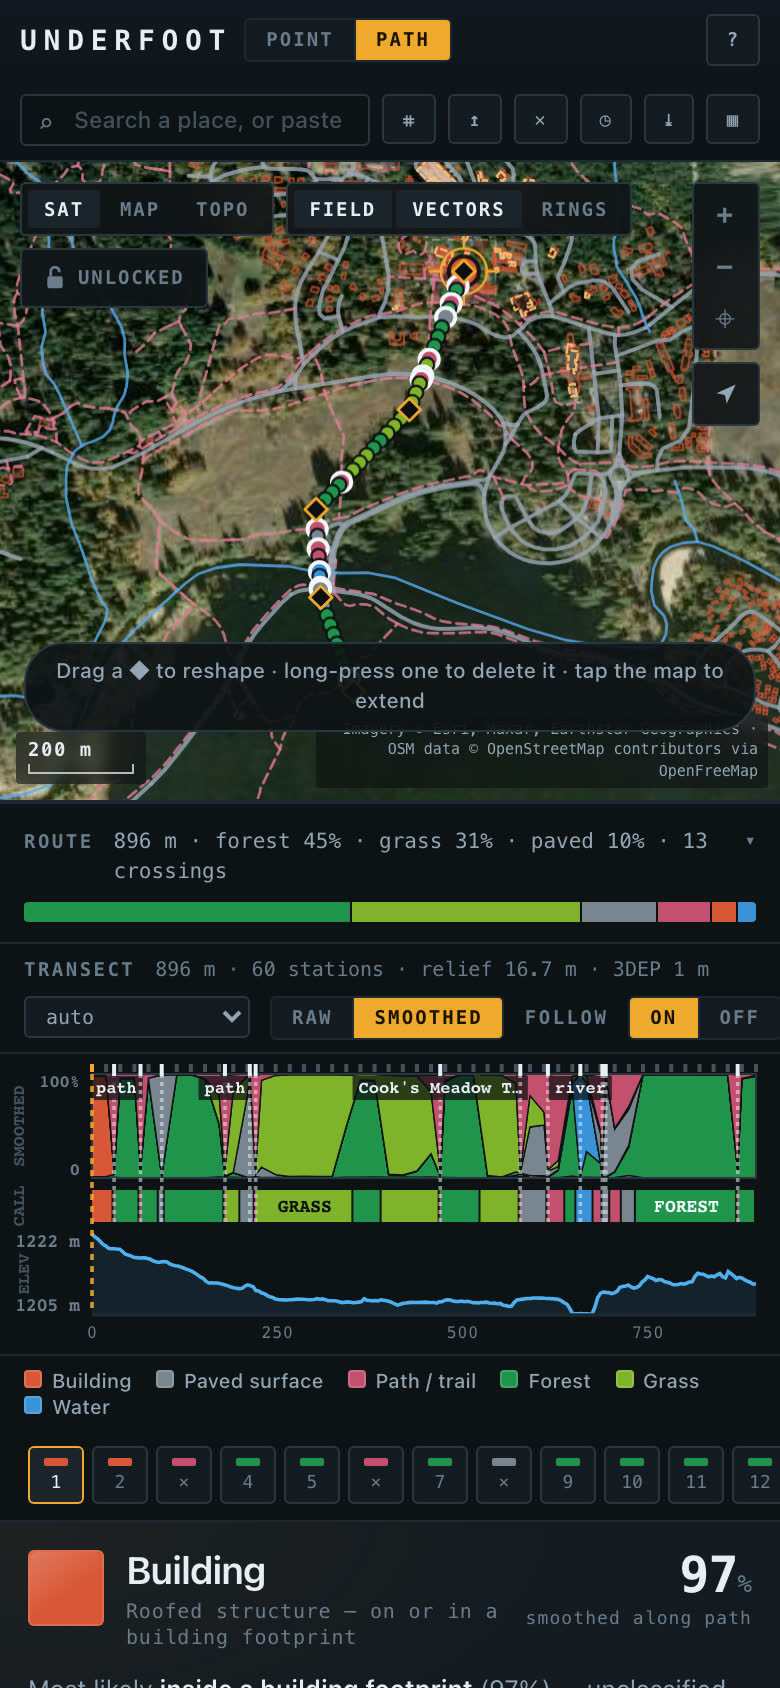
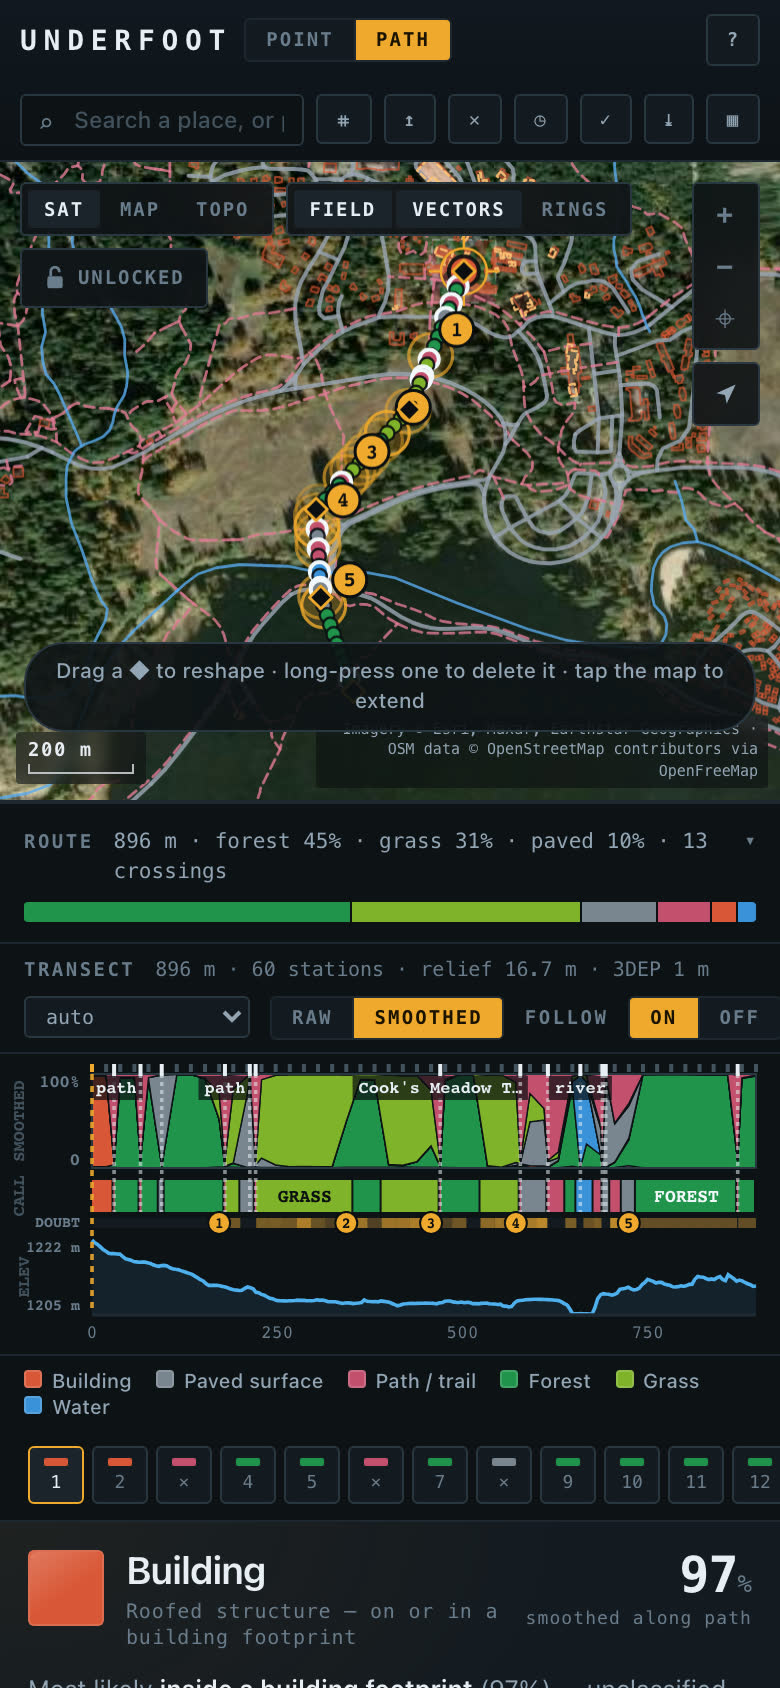
Release 1.2.0: M2, Learning loop
Version 1.2.0 in package.json, the app and CITATION.cff, and the
changelog's section for it. The roadmap records what M2 shipped against
each item's "done when", misses included (snow on rock lights exactly at
the threshold; the GPX hasn't been tried in a hiking app yet). The README
images are regenerated from the current app: halos, check-list numbers,
the doubt band, the mark row, the Marks button and the ledger's weights
line.

Checked on this commit: npm run check (142 unit tests), npm run e2e (102
checks), npm run trails (unchanged: path at 479 of 480 stations on the ten
Park Service lines, 87-94% on the hiker tracks, the demo line follows
nothing).

Changed region(s): [[0.0, 0.6469, 0.9846, 0.8009], [0.3692, 0.1848, 0.6154, 0.3697], [0.3692, 0.0616, 0.4923, 0.0924]]

diff --git a/src/core/classes.ts b/src/core/classes.ts
@@ -18,7 +18,7 @@ import type { ClassDef, ClassKey, ClassMap, PriorName, SourceDef } from './types
  * Everything is free, keyless and CORS-open, so the file works off disk.
  * ==========================================================================*/
 
-export const VERSION = '1.1.1';
+export const VERSION = '1.2.0';
 
 /* ---------------------------------------------------------------- taxonomy */
 export const CLASSES: readonly ClassDef[] = [

diff --git a/docs/roadmap.md b/docs/roadmap.md
@@ -32,25 +32,14 @@ A live site you can send to someone, useful on a phone in the field. Released as
 
 ---
 
-## M2 · Learning loop
+## M2 · Learning loop ✅
 
-**Goal:** Underfoot gets better for *your* area as you use it.
+Underfoot shows where it's unsure, takes your right and wrong marks, and fits its weights to them. Released as 1.2.0.
 
-### Doubt map
-Per station: disagreement among sources (weighted spread of each source's favourite class) and closeness (margin between the top two). Shown as a band on the transect and a tint on the map.
-**Done when** the Seine-quay and Aletsch-type cases from `docs/validation.md` light up as doubtful while clear cases (reservoir, rooftop) stay quiet.
-
-### Walk check list
-The N most doubtful stations along a line, numbered, with what the sources disagree about in plain words. Exports as GPX waypoints for a phone or GPS unit.
-**Done when** the list exports valid GPX that opens in common hiking apps, and each item links back to its station.
-
-### Right / wrong marks
-On any station: ✓ / ✗, and "what's really here" (the twelve classes), plus how you know (standing there, photo, imagery, local knowledge). Stored in IndexedDB with the eight per-source readings at that moment.
-**Done when** marks survive reloads, can be listed, edited and exported, and never leave the device unless shared (M3).
-
-### Local refit
-Fit source weights and N_eff to your own marks: multinomial log-likelihood with L2 pull toward the defaults, so a handful of marks nudges rather than lurches. Shows accuracy on your marks before and after, held-out by leave-one-out. One tap to revert.
-**Done when** refitting on a synthetic set with a known bias recovers it, the defaults are restored exactly on revert, and the UI shows the before/after numbers.
+- **Doubt map** ([#24](https://github.com/dogum/underfoot/pull/24)). Each station scores how close its call is and how many of the sources with an opinion lean another way. Stations at 0.5 or more get a halo on the map, a mark on the transect's doubt band, and the reason in words. The quay and snow-on-rock fixtures light up (0.57 and 0.50) while the reservoir and rooftop stay at 0.00. The real Aletsch spot lights at exactly 0.50. Lines that follow three trails have none of 156 stations lit.
+- **Walk check list** ([#25](https://github.com/dogum/underfoot/pull/25)). The five most doubtful spots, 40 m or more apart, in walking order, opened from the route card. Each one links back to its station, in the app and in the GPX waypoints it exports (`at=`). The GPX keeps GPX 1.1's schema order and reads back into Underfoot; it hasn't yet been tried in Gaia, OsmAnd or on a Garmin.
+- **Right / wrong marks** ([#26](https://github.com/dogum/underfoot/pull/26)). Right, wrong (what's really there) or not sure, and how you know, kept in IndexedDB with all eight sources' readings. Marks survive reloads, and the Marks menu lists, edits, deletes and exports them. The browser suite checks that no request carries one.
+- **Local refit** ([#27](https://github.com/dogum/underfoot/pull/27)). Weights and N_eff fitted to your marks, pulled toward the defaults and kept inside the sliders' range. In a synthetic world where the photo is right 90% of the time and land cover 50%, the fit recovers it: photo 1.00 → 1.78, land cover 0.75 → 0.53. The dialog shows before and after on held-out marks, and Reset restores the defaults exactly (max |Δp| = 0 in the browser).
 
 ---
 

diff --git a/CHANGELOG.md b/CHANGELOG.md
@@ -1,8 +1,8 @@
 # Changelog
 
-## Unreleased
+## 1.2.0 — 2026-10-08
 
-**M2 · Learning loop.**
+**M2 · Learning loop.** Underfoot shows where it's unsure, takes your right and wrong marks, and fits its weights to them, all in your browser.
 
 **Refit on your marks.** Marks ▸ Refit fits the source weights and N_eff to your marks (`engine/refit.ts`).
 
